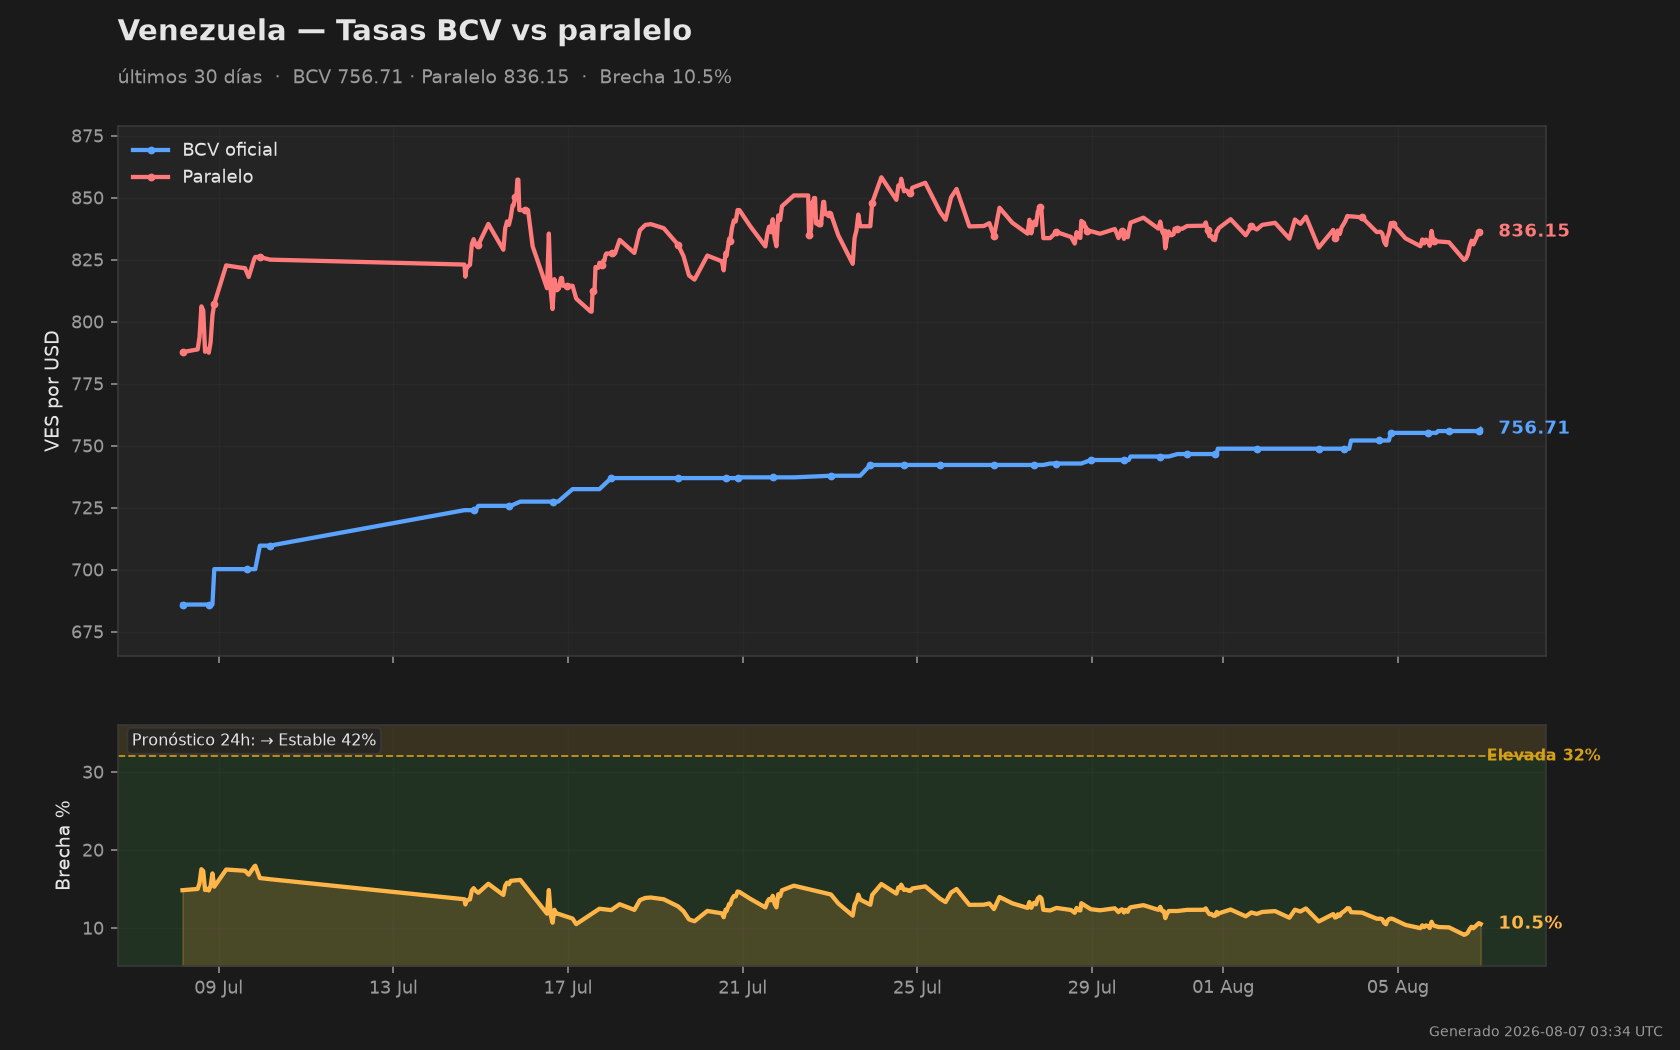
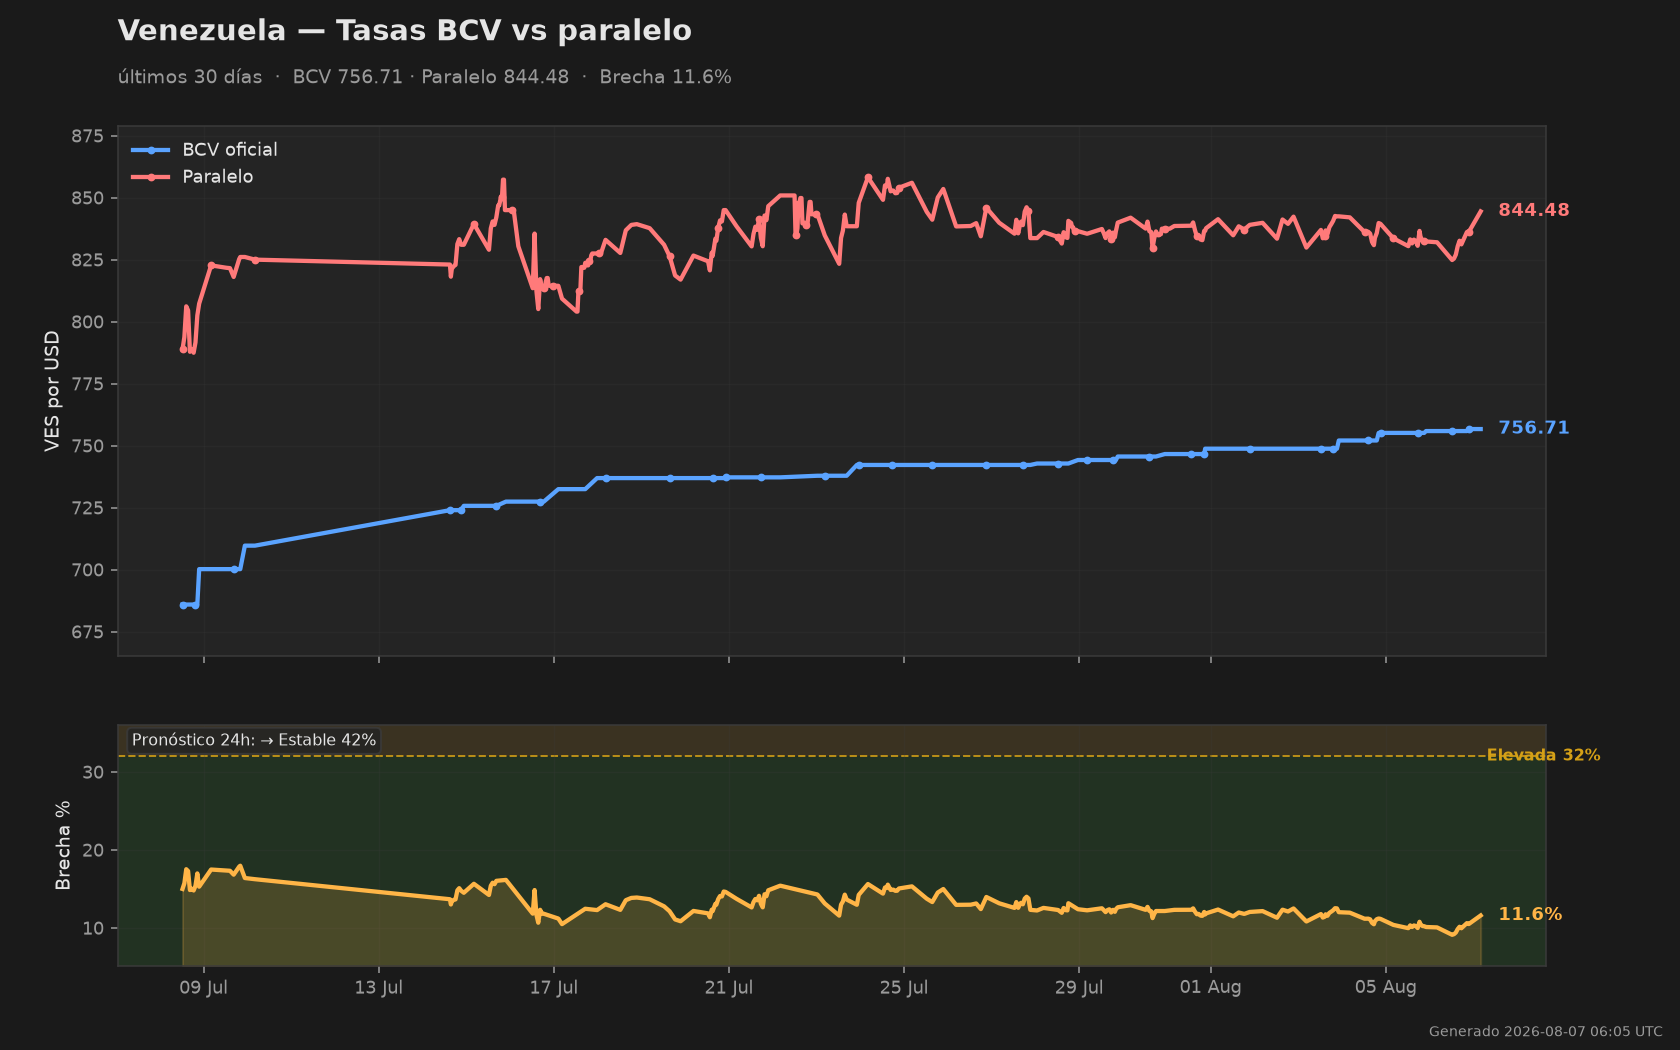
Dashboard update 2026-08-07 06:05 UTC

diff --git a/README.md b/README.md
@@ -11,11 +11,11 @@
 | Metric · Métrica | Value · Valor |
 |---|---|
 | BCV Oficial | **756.71** VES/USD |
-| Paralelo | **836.15** VES/USD |
-| Brecha · Spread | **10.5%** |
-| Binance P2P USDT/VES | **859.00** VES/USDT (+2.7% vs paralelo) |
+| Paralelo | **844.48** VES/USD |
+| Brecha · Spread | **11.6%** |
+| Binance P2P USDT/VES | **857.62** VES/USDT (+1.6% vs paralelo) |
 | **Pronóstico 24h · 24h Forecast** | **→ Estable · Stable (66%)** |
-| Actualizado · Updated | 2026-08-06 21:32 UTC |
+| Actualizado · Updated | 2026-08-07 04:05 UTC |
 
 ![Venezuela BCV vs parallel rate — last 30 days](data/chart.png)
 
